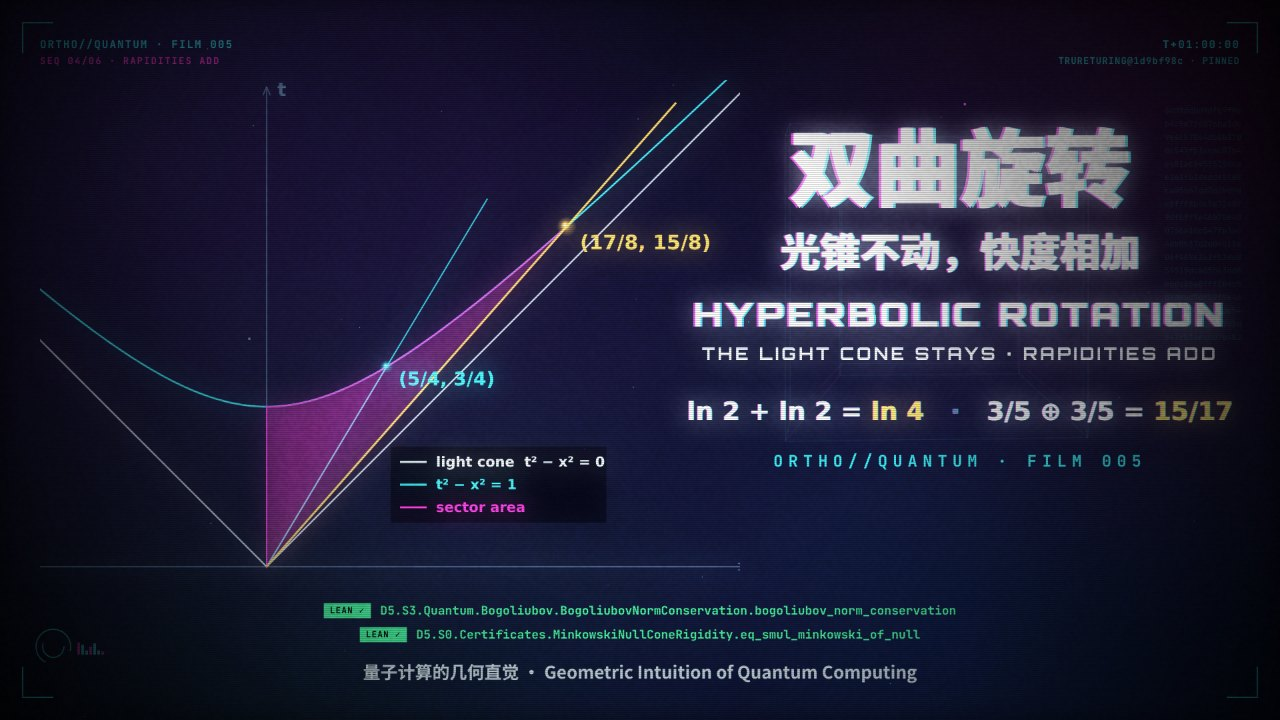
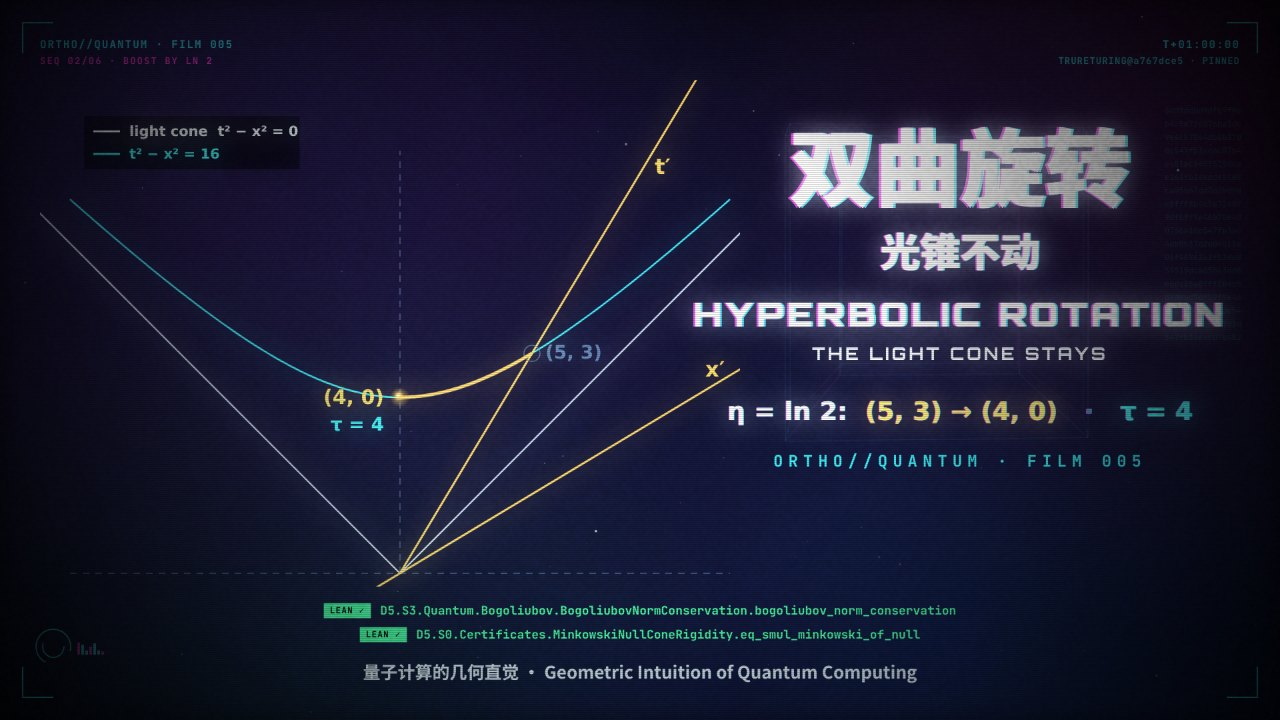
film 005: poster shows the boost of (5, 3) to (4, 0) under the title 'the light cone stays'

diff --git a/books/quantum-geometry/films/005-hyperbolic-rotation/scenes.js b/books/quantum-geometry/films/005-hyperbolic-rotation/scenes.js
@@ -662,27 +662,39 @@ SCENES.close = S => {
 /* ======================================================================= */
 FILM.poster = () => {
   const t = 60.0;
-  background(t, TL.scenes[3], 3, 6);
+  background(t, TL.scenes[1], 1, 6);
   drawHyper(CUBE4, [[0, 3, t * 0.21], [1, 2, t * 0.13], [2, 3, t * 0.17]], { scale: 1.3, a: 0.2, cx: 1400, cy: 420, camZ: 7, lw: 1.3, dots: false });
-  const P = stg(400, 850, 240, [60, 120, 1110, 880]);
-  drawAdd(P, LN2, LN2, 1, {
-    lx: 600, ly: 700,
-    labels: (P, pc) => {
-      const p1 = P([HQ.val(HX.ch2), HQ.val(HX.sh2)]), p2 = P(pc);
-      dot(p1[0], p1[1], 10, 'c', 1);
-      txt(`(${RS(HX.ch2)}, ${RS(HX.sh2)})`, p1[0] + 18, p1[1] + 28, { size: 28, fam: F.math, w: 700, c: C.cyan });
-      txt(`(${RS(HX.ch4)}, ${RS(HX.sh4)})`, p2[0] + 20, p2[1] + 34, { size: 30, fam: F.math, w: 700, c: C.now });
-    }
+  /* the boost of the chapter's example: (5, 3) slides along τ = 4 to (4, 0); the traveller's axes close on the cone */
+  const P = stg(600, 860, 66, [60, 120, 1110, 880]), c = Math.cosh(LN2), s = Math.sinh(LN2);
+  clipped(P, () => {
+    segTX(P, [0, 0], [9.6, 0], C.dim, 0.7, 1.6, true);
+    segTX(P, [0, -7.5], [0, 7.5], C.dim, 0.7, 1.6, true);
+    lightCone(P, 1, 9);
+    hyper(P, 4, -7.5, 7.5, C.cyan, 0.9, 2.6);
+    segTX(P, [0, 0], [10.2 * c, 10.2 * s], C.now, 1, 3);
+    segTX(P, [-8 * s, -8 * c], [8 * s, 8 * c], C.now, 1, 3);
+    const tl = P([9.2, 9.2 * Math.tanh(LN2)]), xl = P([5.6 * s, 5.6 * c]);
+    txt('t′', tl[0] + 18, tl[1] + 8, { size: 32, fam: F.math, w: 700, c: C.now });
+    txt('x′', xl[0] - 4, xl[1] - 18, { size: 32, fam: F.math, w: 700, c: C.now });
+    const g = P([5, 3]);
+    ring(g[0], g[1], 12, C.dim, 0.8, 1.6);
+    txt('(5, 3)', g[0] + 20, g[1] + 8, { size: 28, fam: F.math, w: 700, c: C.dim });
+    pathTX(P, k => bst(LN2 * k, [5, 3]), 60, C.now, 0.9, 5);
+    const p = P(bst(LN2, [5, 3]));
+    dot(p[0], p[1], 15, 'g', 1);
+    txt('(4, 0)', p[0] - 24, p[1] + 10, { size: 30, fam: F.math, w: 700, align: 'right', c: C.now });
+    txt('τ = 4', p[0] - 24, p[1] + 50, { size: 28, fam: F.math, w: 700, align: 'right', c: C.cyan });
   });
+  legend([['light cone  t² − x² = 0', C.white], ['t² − x² = 16', C.cyan]], 1, 140, 204);
   txt('双曲旋转', 1440, 300, { size: 128, fam: F.zh, w: 900, align: 'center', c: C.white, ab: 4 });
-  txt('光锥不动，快度相加', 1440, 400, { size: 60, fam: F.zh, w: 900, align: 'center', c: C.white, ab: 2 });
+  txt('光锥不动', 1440, 400, { size: 60, fam: F.zh, w: 900, align: 'center', c: C.white, ab: 2 });
   txt('HYPERBOLIC ROTATION', 1440, 490, { size: 50, fam: F.orb, w: 900, align: 'center', c: C.white, ab: 3, ls: 6 });
-  txt('THE LIGHT CONE STAYS · RAPIDITIES ADD', 1440, 540, { size: 26, fam: F.orb, w: 700, align: 'center', c: C.white, ls: 4 });
-  rich([['ln 2 + ln 2 = ', C.white], ['ln 4', C.now], ['   ·   ', C.dim], ['3/5 ⊕ 3/5 = ', C.white], ['15/17', C.now]], 1440, 630, { size: 38, align: 'center', ab: 1 });
+  txt('THE LIGHT CONE STAYS', 1440, 540, { size: 26, fam: F.orb, w: 700, align: 'center', c: C.white, ls: 4 });
+  rich([['η = ln 2:  ', C.white], ['(5, 3) → (4, 0)', C.now], ['   ·   ', C.dim], ['τ = 4', C.cyan]], 1440, 630, { size: 38, align: 'center', ab: 1 });
   bloom(0.6);
   txt(`${DATA.book.code} · FILM ${DATA.film.number}`, 1440, 700, { size: 24, fam: F.mono, w: 700, align: 'center', c: C.cyan, ls: 8 });
   leanList(W / 2, 922, 1, { align: 'center', size: 18, gap: 36 });
   txt(`${DATA.book.title.zh} · ${DATA.book.title.en}`, W / 2, 1018, { size: 26, fam: F.zh, w: 700, align: 'center', c: C.white, a: 0.9 });
-  hud(t, Math.round(t * 30), 3, TL.scenes[3]);
+  hud(t, Math.round(t * 30), 1, TL.scenes[1]);
   post(3);
 };
